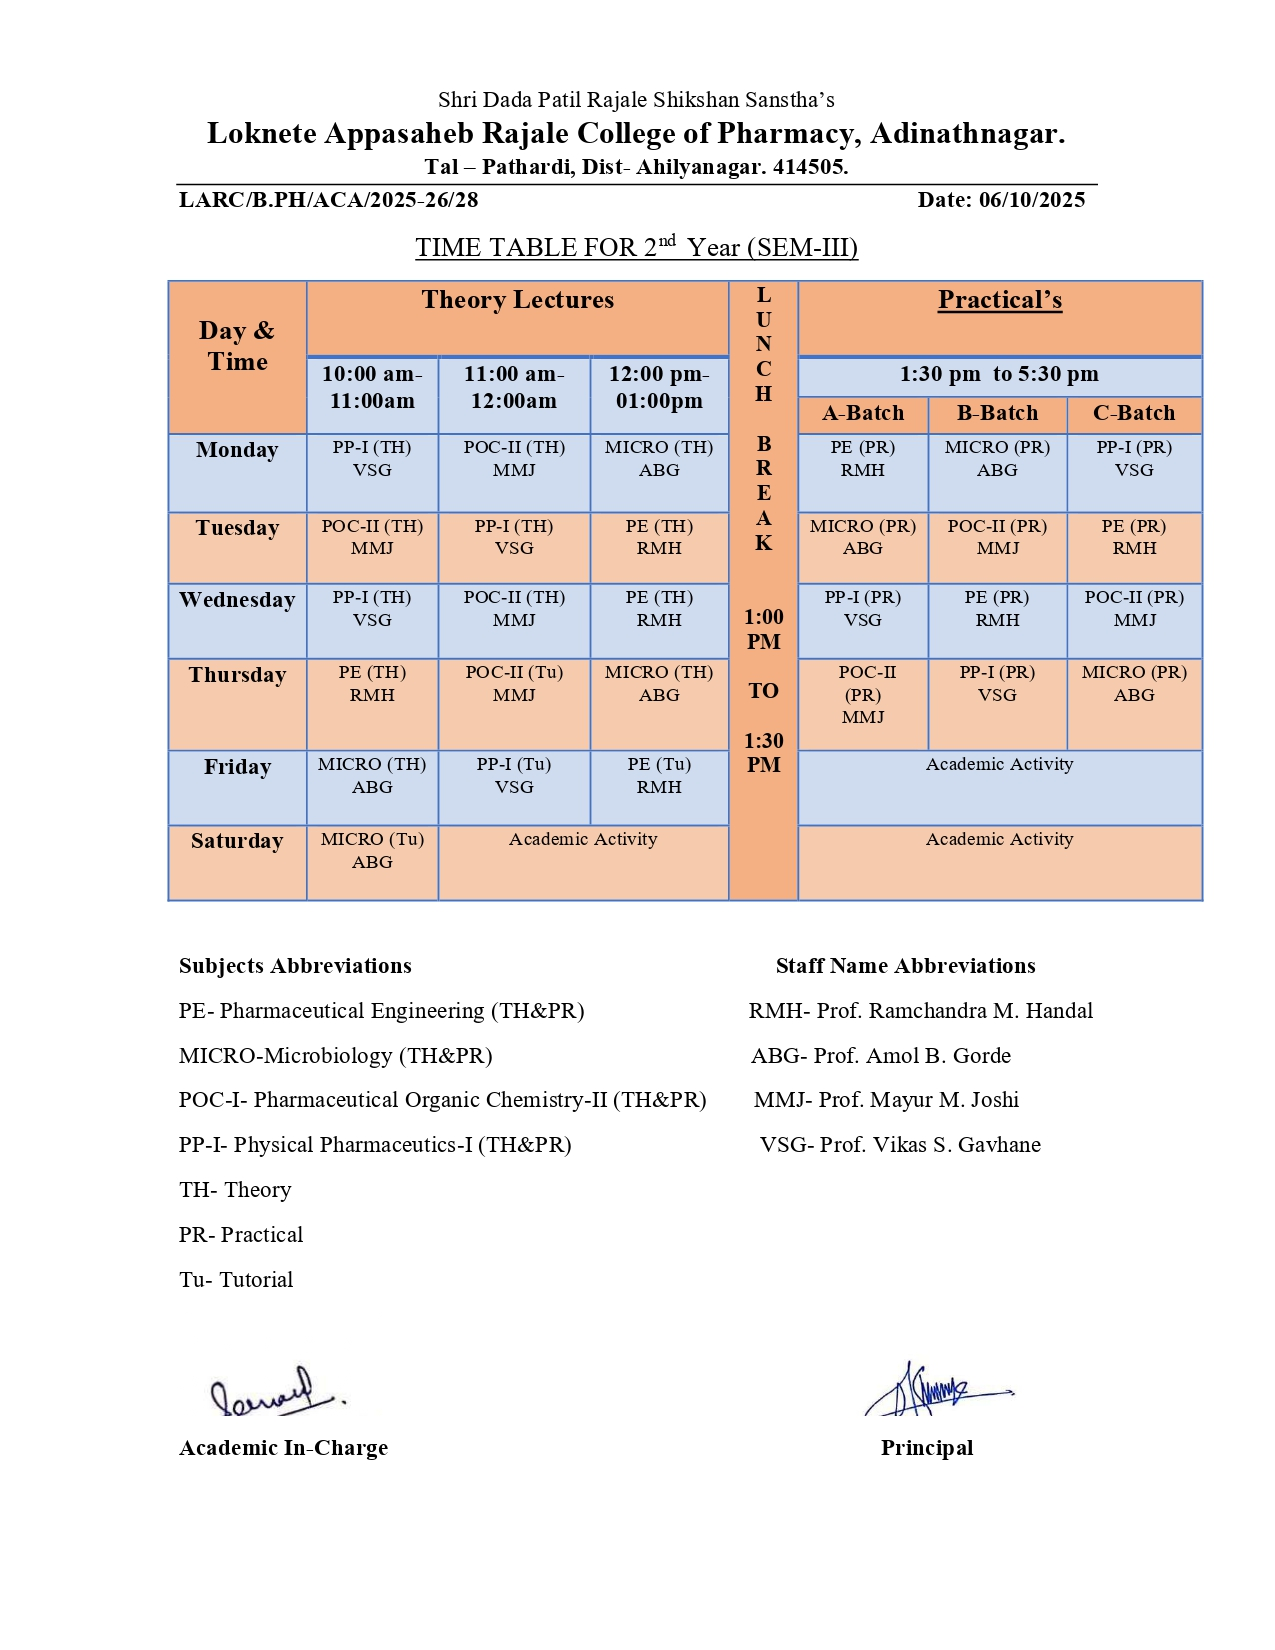
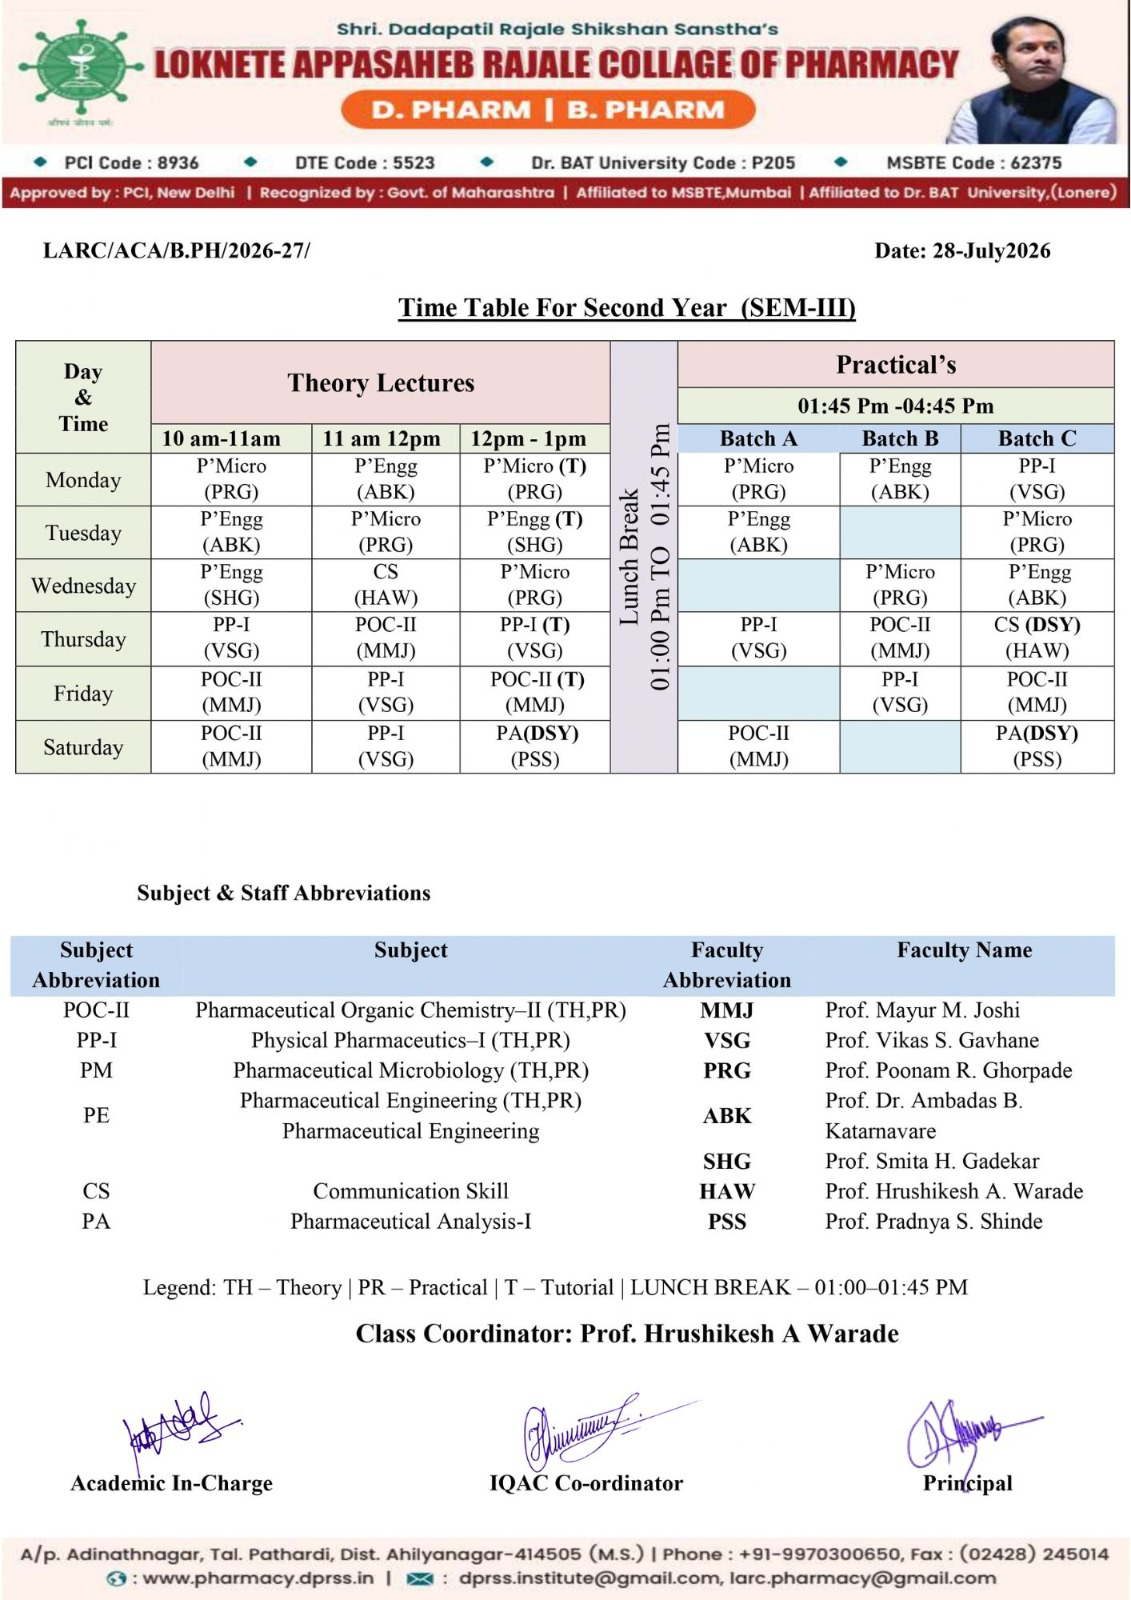
14102026 - timetable updated

diff --git a/academic-timetable.php b/academic-timetable.php
@@ -60,16 +60,16 @@ $timetables = [
         ],
         [
             'id' => 'bpharm-4',
-            'heading' => 'B.Pharm Fourth Year',
+            'heading' => 'B.Pharm Final Year',
             'title' => 'Semester VII',
             'image' => '/college-storage/academic-timetable/b_pharm/b_pharm_sem7.jpg'
         ],
-        [
-            'id' => 'bpharm-4',
-            'heading' => 'B.Pharm Fourth Year',
-            'title' => 'Semester VIII',
-            'image' => '/college-storage/academic-timetable/b_pharm/b_pharm_sem8.jpg'
-        ],
+        // [
+        //     'id' => 'bpharm-4',
+        //     'heading' => 'B.Pharm Final Year',
+        //     'title' => 'Semester VIII',
+        //     'image' => '/college-storage/academic-timetable/b_pharm/b_pharm_sem8.jpg'
+        // ],
     ],
 ];
 

diff --git a/components/header_b.php b/components/header_b.php
@@ -241,7 +241,7 @@
                             class="fa fa-angle-double-right text-secondary"></i>&nbsp;Second Year</a></li>
                       <li><a href="academic-timetable.php?id=bpharm-3"><i
                             class="fa fa-angle-double-right text-secondary"></i>&nbsp;Third Year</a></li>
-                      <!-- <li><a target="_blank" href="academic-timetable.php?id=bpharm-4"><i class="fa fa-angle-double-right text-secondary"></i>&nbsp;Final Year</a></li> -->
+                      <li><a target="_blank" href="academic-timetable.php?id=bpharm-4"><i class="fa fa-angle-double-right text-secondary"></i>&nbsp;Final Year</a></li>
 
                       <li class="dropdown-header header_li_underline mont mt-3">Departments</li>
                       <li><a href="/faculty.php"><i
